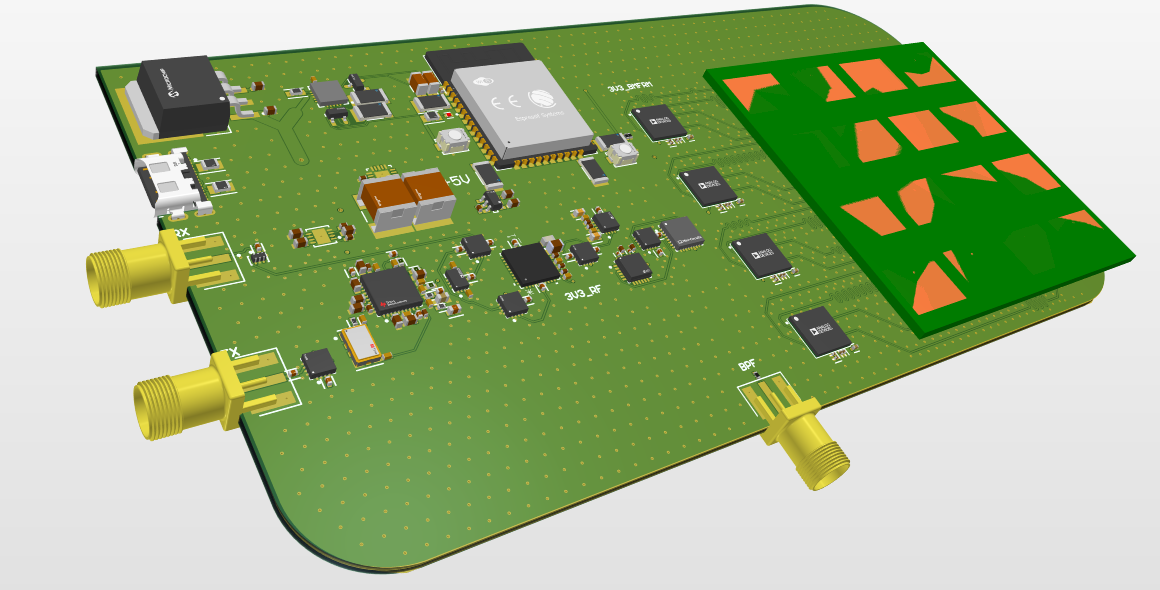
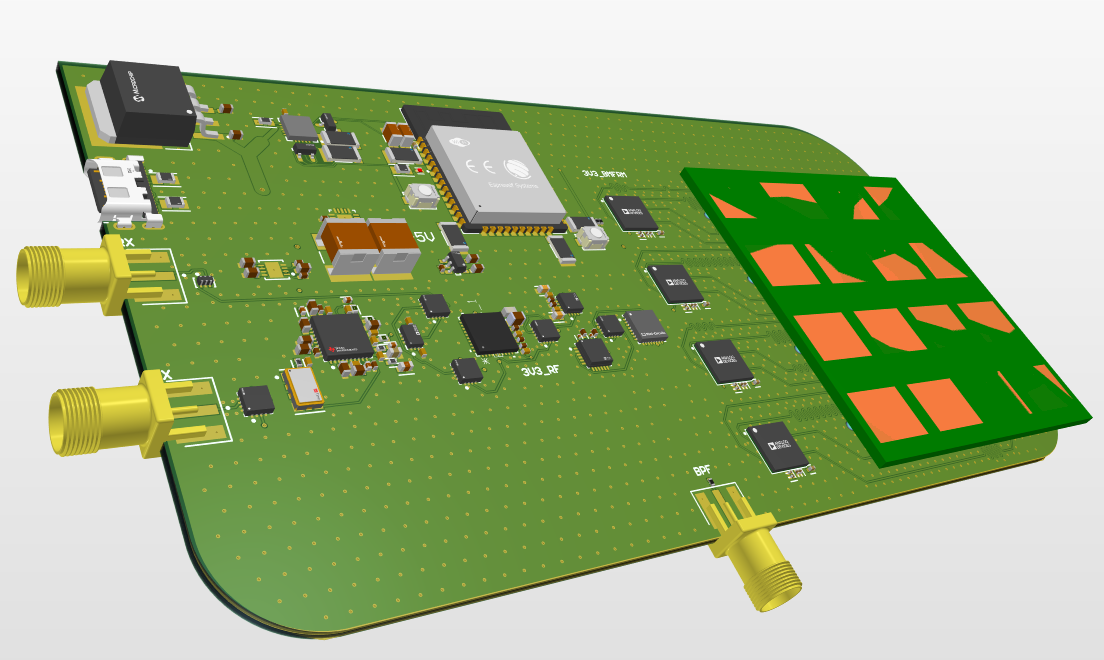
RADAR: update direct-solder and connectorized PCB renders
- Direct-solder board: new top-down and angled renders
- Connectorized board: new top-down and angled renders (with power-rail test points); captions note the test points

Claude-Session: https://claude.ai/code/session_01HFpYuPn3ku627FE1Wqrqwy

diff --git a/radar.html b/radar.html
@@ -1356,11 +1356,11 @@
     </p>
     <figure class="shot">
       <img src="images/radar/conn-pcb-3d-render.png" alt="Top-down 3D render of the connectorized RF PCB with sixteen MHF 4L receptacles where the array attaches" loading="lazy" />
-      <figcaption><b>Connectorized RF PCB, top-down render in Altium Designer.</b> The sixteen gold MHF&nbsp;4L receptacles on the right form a 4&times;4 grid on the same 1.428&nbsp;cm pitch as the patch elements, each fed by a length-matched serpentine line from one of the four beamformers (3V3_BMFRM domain). The rest of the board is the same as the soldered version: ESP32, USB-C and LDOs along the top, the 3V3_RF transceiver chain in the middle, the RX and TX SMA connectors on the left edge and the BPF tuning input on the bottom.</figcaption>
+      <figcaption><b>Connectorized RF PCB, top-down render in Altium Designer.</b> The sixteen gold MHF&nbsp;4L receptacles on the right form a 4&times;4 grid on the same 1.428&nbsp;cm pitch as the patch elements, each fed by a length-matched serpentine line from one of the four beamformers (3V3_BMFRM domain). The rest of the board is the same as the soldered version: ESP32, USB-C and LDOs along the top, the 3V3_RF transceiver chain in the middle, the RX and TX SMA connectors on the left edge and the BPF tuning input on the bottom. This revision also adds a loop test point on every power rail, covered below.</figcaption>
     </figure>
     <figure class="shot">
       <img src="images/radar/conn-pcb-3d-angled.png" alt="Angled 3D render of the connectorized RF PCB showing the low-profile MHF 4L receptacles" loading="lazy" />
-      <figcaption><b>Angled view of the connectorized board.</b> The MHF&nbsp;4L receptacles are very low profile, sitting roughly flush with the surrounding components, so they add almost no height to the stack. The three edge-launch SMA connectors (RX, TX and BPF) are visible along the edges.</figcaption>
+      <figcaption><b>Angled view of the connectorized board.</b> The MHF&nbsp;4L receptacles are very low profile, sitting roughly flush with the surrounding components, so they add almost no height to the stack. The three edge-launch SMA connectors (RX, TX and BPF) are visible along the edges, along with the power-rail test points standing above the board.</figcaption>
     </figure>
 
     <h3>Power-rail test points</h3>
